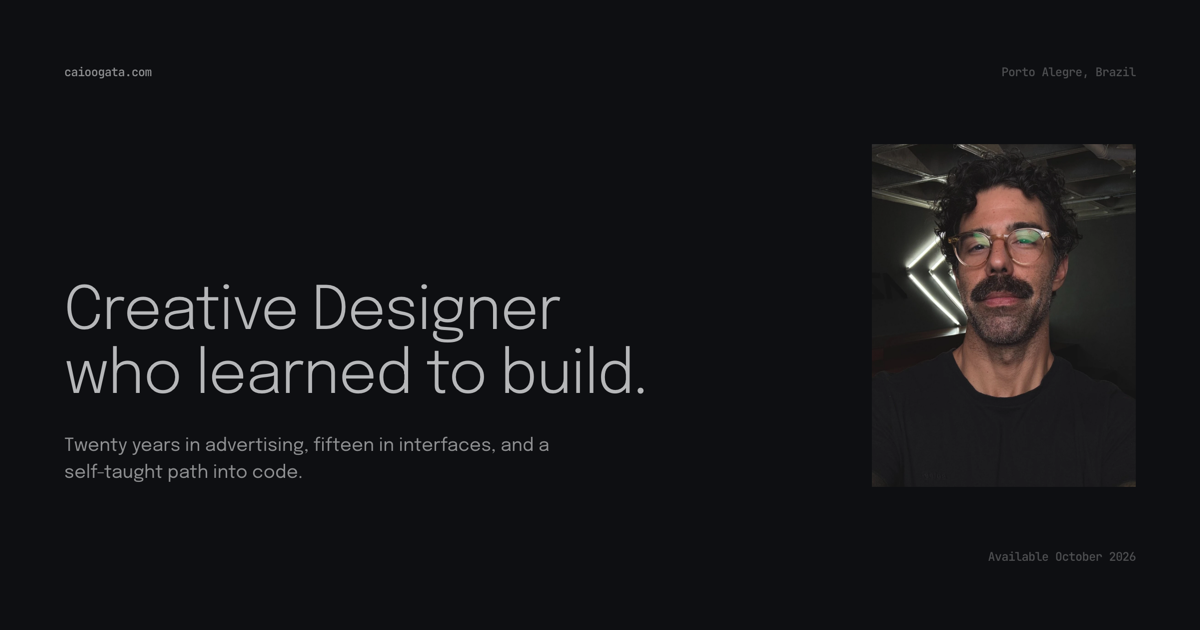
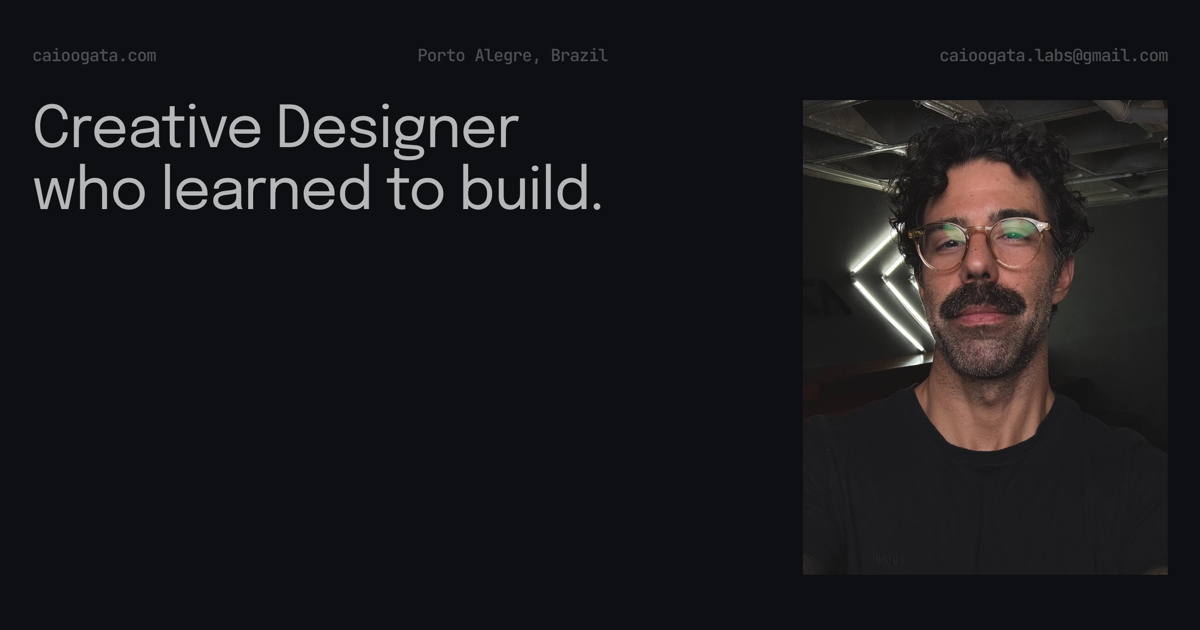
wip(og): the intro's frame, four columns of portrait, and an email
The card was a composition that borrowed the hero's parts and stacked them in
the bottom half. It is the intro's own frame now: a mono label row where the
header sits, the headline on the left eight columns, the portrait on the right
four. Same `Grid`, same gutters, same twelve columns as the page.

- Headline and portrait share one grid row rather than stacking. At four
  columns the portrait is 365 wide, and at the Figma's 216x281 that is 475 tall
  — three quarters of the card. Stacked it does not fit; beside the headline it
  does, and the picture carries the weight the way it does on the page
- No bio. A share card is read in a feed at a third of its size and body copy
  at that scale is grey noise; the description meta tag already says it in real
  text the platform renders itself
- The email takes the availability line's slot. Away from the site, the card's
  job is to be answerable
- Labels at 17px, four points over the page's 12, for the same reason

The board hides `[role="banner"]`, `footer` and `nextjs-portal` itself: the root
layout mounts the header and footer on every route, the header is sticky, and
an element screenshot was picking up the menu straight across the headline.

PROJECTS-GUIDE carries the real shooting recipe now — the previous one was a
`node -e "..."` placeholder. The 2x pass is a `transform: scale(2)` rather than
`zoom` or a wider viewport, because a transform re-rasterises the type at the
higher scale where the other two re-wrap it.

diff --git a/site/src/app/dev/og/page.tsx b/site/src/app/dev/og/page.tsx
@@ -1,67 +1,101 @@
 import type { Metadata } from 'next'
 import Image from 'next/image'
-import { LABEL, LABEL_TYPE } from '@/components/ui/label'
+import { Grid, GridItem } from '@/components/layout/Grid'
+import { LABEL_TYPE } from '@/components/ui/label'
 import content from '@/content/en.json'
 
 /**
- * The board the OG image is shot from — 1200x630, the hero's own composition:
- * headline on the left, portrait on the right, mono labels top and bottom.
- * Screenshot it at this size and save over `public/og-img.png`
+ * The board the OG image is shot from — 1200x630, saved over `public/og-img.png`
  * (PROJECTS-GUIDE.md › Open Graph). Never indexed: `/dev/` is disallowed.
+ *
+ * It is the intro's own frame, not a card assembled from its parts: a mono
+ * label row where the header sits, the headline on the left eight columns, the
+ * portrait on the right four. Same `Grid`, same gutters, same twelve columns as
+ * the page — the board is 1200 wide and the grid is responsive to the viewport,
+ * so shoot it in a window at least 1024 wide or the columns collapse to the
+ * tablet layout.
+ *
+ * Headline and portrait share one grid row rather than stacking. At four
+ * columns the portrait is 365 wide, and at the Figma's 216x281 that is 475
+ * tall — three quarters of the card. Stacked under the headline it would not
+ * fit; beside it, it does, and the frame reads the way the hero does: the
+ * sentence at the top left, him at the right, the picture carrying the weight.
+ *
+ * Two things it deliberately does not carry. The bio, because a share card is
+ * read in a feed at a third of its size and body copy at that scale is grey
+ * noise — the description meta tag already says it in real text that the
+ * platform renders itself. And the availability line, whose slot the email
+ * takes: away from the site, the card's job is to be answerable.
  */
 export const metadata: Metadata = {
   title: 'OG board — dev',
   robots: { index: false, follow: false },
 }
 
+const { hero, contact, ui } = content
+
+/** The card's own label size — four points over the page's 12px. */
+const OG_LABEL = `${LABEL_TYPE} text-[17px] opacity-50`
+
 export default function OgBoardPage() {
   return (
     <div className="flex min-h-screen items-center justify-center bg-black p-6">
+      {/* The root layout mounts the header and the footer on every route, and
+          the header is sticky — it lands on top of the board and an element
+          screenshot picks it up. `nextjs-portal` is the dev overlay badge,
+          which sits in the bottom-left corner and got shot into the card too.
+          A style tag rather than a layout because a root layout always applies
+          in the App Router; there is no opting out of it from a leaf route. */}
+      <style>{`
+        [role="banner"], footer, nextjs-portal { display: none !important; }
+      `}</style>
+
       <div
         id="og-board"
-        className="relative flex flex-col justify-between overflow-hidden bg-bg"
-        style={{ width: 1200, height: 630, padding: 64 }}
+        className="relative flex flex-col overflow-hidden bg-bg"
+        style={{ width: 1200, height: 630, paddingTop: 44, paddingBottom: 44 }}
       >
-        <div className="flex items-start justify-between">
-          <span className={LABEL_TYPE}>caioogata.com</span>
-          <span className={LABEL}>{content.hero.location}</span>
-        </div>
+        {/* ── Top labels — where the header sits on the page ──
+             The domain takes the slot the welcome line holds there: a share
+             card is seen away from the site and has to name it. */}
+        <Grid className="items-start">
+          <GridItem span={4} className={OG_LABEL}>
+            caioogata.com
+          </GridItem>
+          <GridItem span={4} className={OG_LABEL}>
+            {hero.location}
+          </GridItem>
+          <GridItem span={4} className={`${OG_LABEL} text-right`}>
+            {contact.email}
+          </GridItem>
+        </Grid>
 
-        <div className="flex items-end justify-between gap-16">
-          <div className="flex flex-col gap-6" style={{ maxWidth: 740 }}>
+        {/* ── Headline on 1-8, portrait on 9-12 — one row ── */}
+        <Grid className="mt-8 flex-1 items-start">
+          <GridItem span={8}>
             <h1
-              className="text-text-primary"
-              style={{
-                fontFamily: 'var(--font-sans)',
-                fontSize: 60,
-                lineHeight: 1.06,
-                fontWeight: 300,
-                letterSpacing: '-0.02em',
-              }}
+              className="type-display text-text-primary"
+              style={{ fontSize: 58, lineHeight: 1.08, letterSpacing: '-0.02em' }}
             >
-              Creative Designer
+              {ui.intro.headlineLine1}
               <br />
-              who learned to build.
+              {ui.intro.headlineLine2}
             </h1>
-            <p
-              className="text-text-secondary"
-              style={{ fontFamily: 'var(--font-sans)', fontSize: 18, lineHeight: 1.5, maxWidth: 520 }}
-            >
-              {content.hero.tagline2}
-            </p>
-          </div>
+          </GridItem>
 
-          <div
-            className="relative shrink-0 overflow-hidden bg-bg-surface-primary"
-            style={{ width: 264, height: 343 }}
-          >
-            <Image src="/caio-ogata-profile.webp" alt="" fill sizes="264px" className="object-cover" priority />
-          </div>
-        </div>
-
-        <div className="flex items-end justify-end">
-          <span className={LABEL}>{content.ui.header.available}</span>
-        </div>
+          <GridItem span={4} start={9}>
+            <div className="relative aspect-[216/281] w-full overflow-hidden bg-bg-surface-primary">
+              <Image
+                src="/caio-ogata-profile.webp"
+                alt=""
+                fill
+                sizes="400px"
+                className="object-cover"
+                priority
+              />
+            </div>
+          </GridItem>
+        </Grid>
       </div>
     </div>
   )

diff --git a/site/src/lib/build-info.ts b/site/src/lib/build-info.ts
@@ -1,2 +1,2 @@
 // Auto-generated by scripts/update-build-info.mjs — do not edit manually
-export const COMMIT_COUNT = 516
+export const COMMIT_COUNT = 517

diff --git a/site/PROJECTS-GUIDE.md b/site/PROJECTS-GUIDE.md
@@ -466,22 +466,59 @@ One image for the whole site, at `public/og-img.png`, 1200x630. It is the hero's
 own composition — headline left, portrait right, mono labels top and bottom — so
 a shared link looks like the page it opens.
 
-It is not drawn by hand: `/dev/og` renders the board with the site's fonts and
-tokens, and the image is a screenshot of it. Re-shoot whenever the headline, the
-portrait or the availability line changes:
+It is not drawn by hand: `/dev/og` renders the board with the site's own `Grid`,
+fonts and tokens, and the image is a screenshot of it. Re-shoot whenever the
+headline, the portrait, the bio or the availability line changes.
+
+With the dev server running, in a Playwright page at a viewport of at least
+1024 wide (below that the `Grid` drops to the tablet layout):
+
+```js
+await page.goto('http://localhost:3000/dev/og')
+await page.evaluate(async () => {
+  await document.fonts.ready
+  // Render at 2x without reflowing: a transform re-rasterises the type at the
+  // higher scale, where `zoom` or a wider viewport would re-wrap it.
+  const b = document.getElementById('og-board')
+  b.style.transformOrigin = 'top left'
+  b.style.transform = 'scale(2)'
+  const p = b.parentElement
+  Object.assign(p.style, { display: 'block', padding: '0', minHeight: '0',
+                           width: '2400px', height: '1260px', overflow: 'hidden' })
+})
+await page.locator('#og-board').screenshot({ path: 'og-2x.png', scale: 'css' })
+```
 
 ```bash
-# with the dev server running
-node -e "..."   # or any Playwright script:
-# 1. viewport 1400x800 at deviceScaleFactor 2
-# 2. goto /dev/og, wait for the fonts
-# 3. screenshot the #og-board element  -> 2400x1260
-# 4. sips -z 630 1200 og-2x.png --out public/og-img.png
+sips -z 630 1200 og-2x.png --out public/og-img.png
 ```
 
 Shooting at 2x and scaling down to 1200x630 is what keeps the thin Epilogue
-headline clean. `/dev/` is `noindex` and disallowed in `robots.txt`, so the
-board never shows up in search.
+headline clean. The board hides `[role="banner"]`, `footer` and `nextjs-portal`
+itself — the root layout mounts the header and footer on every route, the header
+is sticky, and an element screenshot picks up whatever is painted over the box.
+`/dev/` is `noindex` and disallowed in `robots.txt`, so the board never shows up
+in search.
+
+**Composition.** The board is the intro's frame, not a card assembled from its
+parts: a label row where the header sits, the headline on the left eight
+columns, the portrait on the right four. Headline and portrait share one grid
+row rather than stacking — at four columns the portrait is 365 wide, and at the
+Figma's 216x281 that is 475 tall, three quarters of the card. Stacked it would
+not fit; beside the headline it does.
+
+Type runs four points over the page: labels at 17px against the page's 12,
+because a share card is read in a feed at a third of its size.
+
+**What the card does not carry, on purpose.** No bio — body copy at feed scale
+is grey noise, and the description meta tag already says it in real text the
+platform renders itself. No availability line; the email has that slot, because
+away from the site the card's job is to be answerable.
+
+**Crops.** LinkedIn, X and Facebook all show something near the native 1.91:1,
+so the frame survives whole. A square-cropped preview (some WhatsApp contexts)
+takes the middle 630px: it keeps the headline but loses the domain on the left
+and most of the portrait on the right.
 
 ---
 
